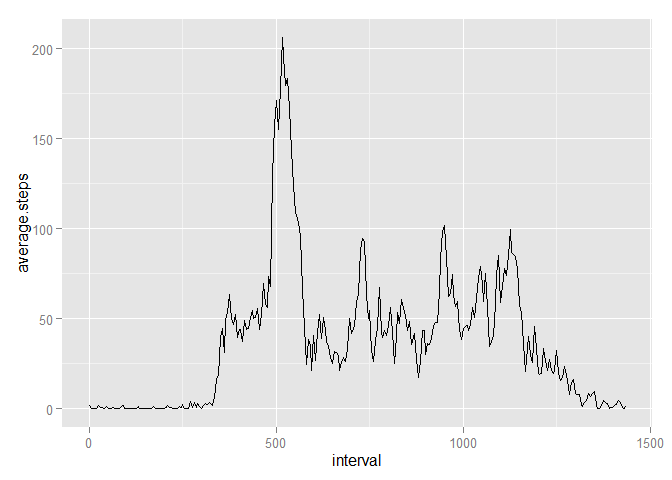
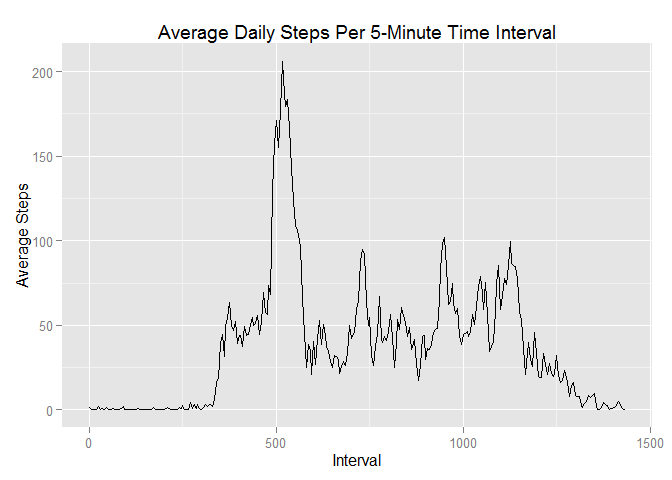
add weekday/weekend activity panel plot, some clean up

diff --git a/RepResearchPA1.html b/RepResearchPA1.html
@@ -162,13 +162,14 @@ for(i in 1:length(interval)) {
     intervalSteps &lt;- filter(normalized.activity, interval == interval[i])
     time.series.df$average.steps[i] &lt;- mean(intervalSteps$steps)
 }</code></pre>
-<p>This section acts as a test: REMOVE BEFORE FINAL CHECK-IN<br />interval = 0 has average steps = 1.72 should be 1.7<br />interval = 5 has average steps = 0.34 should be 0.34<br />interval = 10 has average steps = 0.13 should be 0.13</p>
 <p>With the gaps removed, the code below uses the <strong>ggplot2</strong> package to generate the line plot (point symbols omitted):</p>
 <pre class="r"><code>p2 &lt;- ggplot(time.series.df, aes(x = interval, y = average.steps))
+p2 &lt;- p2 + ggtitle(&quot;Average Daily Steps Per 5-Minute Time Interval&quot;)
+p2 &lt;- p2 + labs(x = &quot;Interval&quot;, y = &quot;Average Steps&quot;)
 #p2 &lt;- p2 + geom_point(size = 2)
 p2 &lt;- p2 + geom_line()
 print(p2)</code></pre>
[2 lines of base64/hex data omitted]
 <p>The following code finds the 5-minute interval with the maximum number of steps:</p>
 <pre class="r"><code>indexOfMax &lt;- which.max(time.series.df$average.steps)
 maxInterval &lt;- time.series.df$interval[indexOfMax]
@@ -177,8 +178,8 @@ maxSteps &lt;- time.series.df$average.steps[indexOfMax]</code></pre>
 </div>
 <div id="imputing-missing-values" class="section level2">
 <h2>Imputing missing values</h2>
-<div id="number-of-na-values-in-the-steps-field." class="section level3">
-<h3>Number of NA values in the <strong>steps</strong> field.</h3>
+<div id="number-of-missing-na-values-in-the-steps-field." class="section level3">
+<h3>Number of missing (NA) values in the <strong>steps</strong> field.</h3>
 <div id="note-there-are-no-missing-values-in-the-date-or-interval-fields." class="section level4">
 <h4>(<em>Note: There are no missing values in the <strong>date</strong> or <strong>interval</strong> fields.</em>)</h4>
 <pre class="r"><code>sum(is.na(activity.data$steps))</code></pre>
@@ -221,6 +222,50 @@ median.imp &lt;- median(daily.steps$Total.Steps)</code></pre>
 </div>
 <div id="are-there-differences-in-activity-patterns-between-weekdays-and-weekends" class="section level2">
 <h2>Are there differences in activity patterns between weekdays and weekends?</h2>
+<pre class="r"><code>isWeekday &lt;- function(date.yyyy.mm.dd) {
+    d &lt;- as.POSIXlt(date.yyyy.mm.dd)
+    if(d$wday %in% c(1:5)) {
+        return(&quot;weekday&quot;)
+    }
+    else {
+        return(&quot;weekend&quot;)
+    }
+}
+
+activity.data.normalized$day.type &lt;-
+    sapply(activity.data.normalized$date, isWeekday)
+
+activity.data.normalized &lt;- mutate(activity.data.normalized,
+                                   day.type = as.factor(day.type))
+
+interval &lt;- seq(0, 1435, by = 5)
+time.series.df.imputed &lt;-
+    data.frame(interval = interval,
+               day.type = as.factor(c(rep(&quot;weekday&quot;, length(interval)),
+                                      rep(&quot;weekend&quot;, length(interval)))),
+               average.steps = rep(-1, 2 *length(interval)))
+
+stepsWeekdays &lt;- filter(activity.data.normalized, day.type == &quot;weekday&quot;)
+for(i in 1:length(interval)) {
+    intervalStepsWeekdays &lt;- filter(stepsWeekdays, interval == interval[i])
+    time.series.df.imputed$average.steps[i] &lt;- 
+        mean(intervalStepsWeekdays$steps)
+}
+
+stepsWeekends &lt;- filter(activity.data.normalized, day.type == &quot;weekend&quot;)
+j.start &lt;- length(interval) + 1
+for(j in j.start:(2*length(interval))) {
+    intervalStepsWeekends &lt;- filter(stepsWeekends, interval == interval[j])
+    time.series.df.imputed$average.steps[j] &lt;- 
+        mean(intervalStepsWeekends$steps)
+}
+
+g &lt;- ggplot(time.series.df.imputed,
+            aes(x = interval, y = average.steps, fill = day.type))
+g &lt;- g + geom_line()
+g &lt;- g+ facet_grid(day.type ~ .)
+print(g)</code></pre>
[1 lines of base64/hex data omitted]
 </div>
 
 

diff --git a/RepResearchPA1.md b/RepResearchPA1.md
@@ -115,10 +115,6 @@ for(i in 1:length(interval)) {
     time.series.df$average.steps[i] <- mean(intervalSteps$steps)
 }
 ```
-This section acts as a test: REMOVE BEFORE FINAL CHECK-IN  
-interval = 0  has average steps = 1.72 should be  1.7  
-interval = 5  has average steps = 0.34 should be 0.34  
-interval = 10 has average steps = 0.13 should be 0.13  
 
 With the gaps removed, the code below uses the **ggplot2** package to generate the 
 line plot (point symbols omitted):  
@@ -126,6 +122,8 @@ line plot (point symbols omitted):
 
 ```r
 p2 <- ggplot(time.series.df, aes(x = interval, y = average.steps))
+p2 <- p2 + ggtitle("Average Daily Steps Per 5-Minute Time Interval")
+p2 <- p2 + labs(x = "Interval", y = "Average Steps")
 #p2 <- p2 + geom_point(size = 2)
 p2 <- p2 + geom_line()
 print(p2)
@@ -147,7 +145,7 @@ The 5-minute interval where the maximum number of steps are taken is
 515.  The maximum of average steps in the data was 206.17
   
 ## Imputing missing values  
-### Number of NA values in the **steps** field.
+### Number of missing (NA) values in the **steps** field.
 #### (*Note: There are no missing values in the **date** or **interval** fields.*)
 
 ```r
@@ -206,3 +204,51 @@ containing the mean in the histogram.  These results were to be expected since
 we added more mean values to the data. 
   
 ## Are there differences in activity patterns between weekdays and weekends?
+
+```r
+isWeekday <- function(date.yyyy.mm.dd) {
+    d <- as.POSIXlt(date.yyyy.mm.dd)
+    if(d$wday %in% c(1:5)) {
+        return("weekday")
+    }
+    else {
+        return("weekend")
+    }
+}
+
+activity.data.normalized$day.type <-
+    sapply(activity.data.normalized$date, isWeekday)
+
+activity.data.normalized <- mutate(activity.data.normalized,
+                                   day.type = as.factor(day.type))
+
+interval <- seq(0, 1435, by = 5)
+time.series.df.imputed <-
+    data.frame(interval = interval,
+               day.type = as.factor(c(rep("weekday", length(interval)),
+                                      rep("weekend", length(interval)))),
+               average.steps = rep(-1, 2 *length(interval)))
+
+stepsWeekdays <- filter(activity.data.normalized, day.type == "weekday")
+for(i in 1:length(interval)) {
+    intervalStepsWeekdays <- filter(stepsWeekdays, interval == interval[i])
+    time.series.df.imputed$average.steps[i] <- 
+        mean(intervalStepsWeekdays$steps)
+}
+
+stepsWeekends <- filter(activity.data.normalized, day.type == "weekend")
+j.start <- length(interval) + 1
+for(j in j.start:(2*length(interval))) {
+    intervalStepsWeekends <- filter(stepsWeekends, interval == interval[j])
+    time.series.df.imputed$average.steps[j] <- 
+        mean(intervalStepsWeekends$steps)
+}
+
+g <- ggplot(time.series.df.imputed,
+            aes(x = interval, y = average.steps, fill = day.type))
+g <- g + geom_line()
+g <- g+ facet_grid(day.type ~ .)
+print(g)
+```
+
+![](RepResearchPA1_files/figure-html/unnamed-chunk-8-1.png) 
